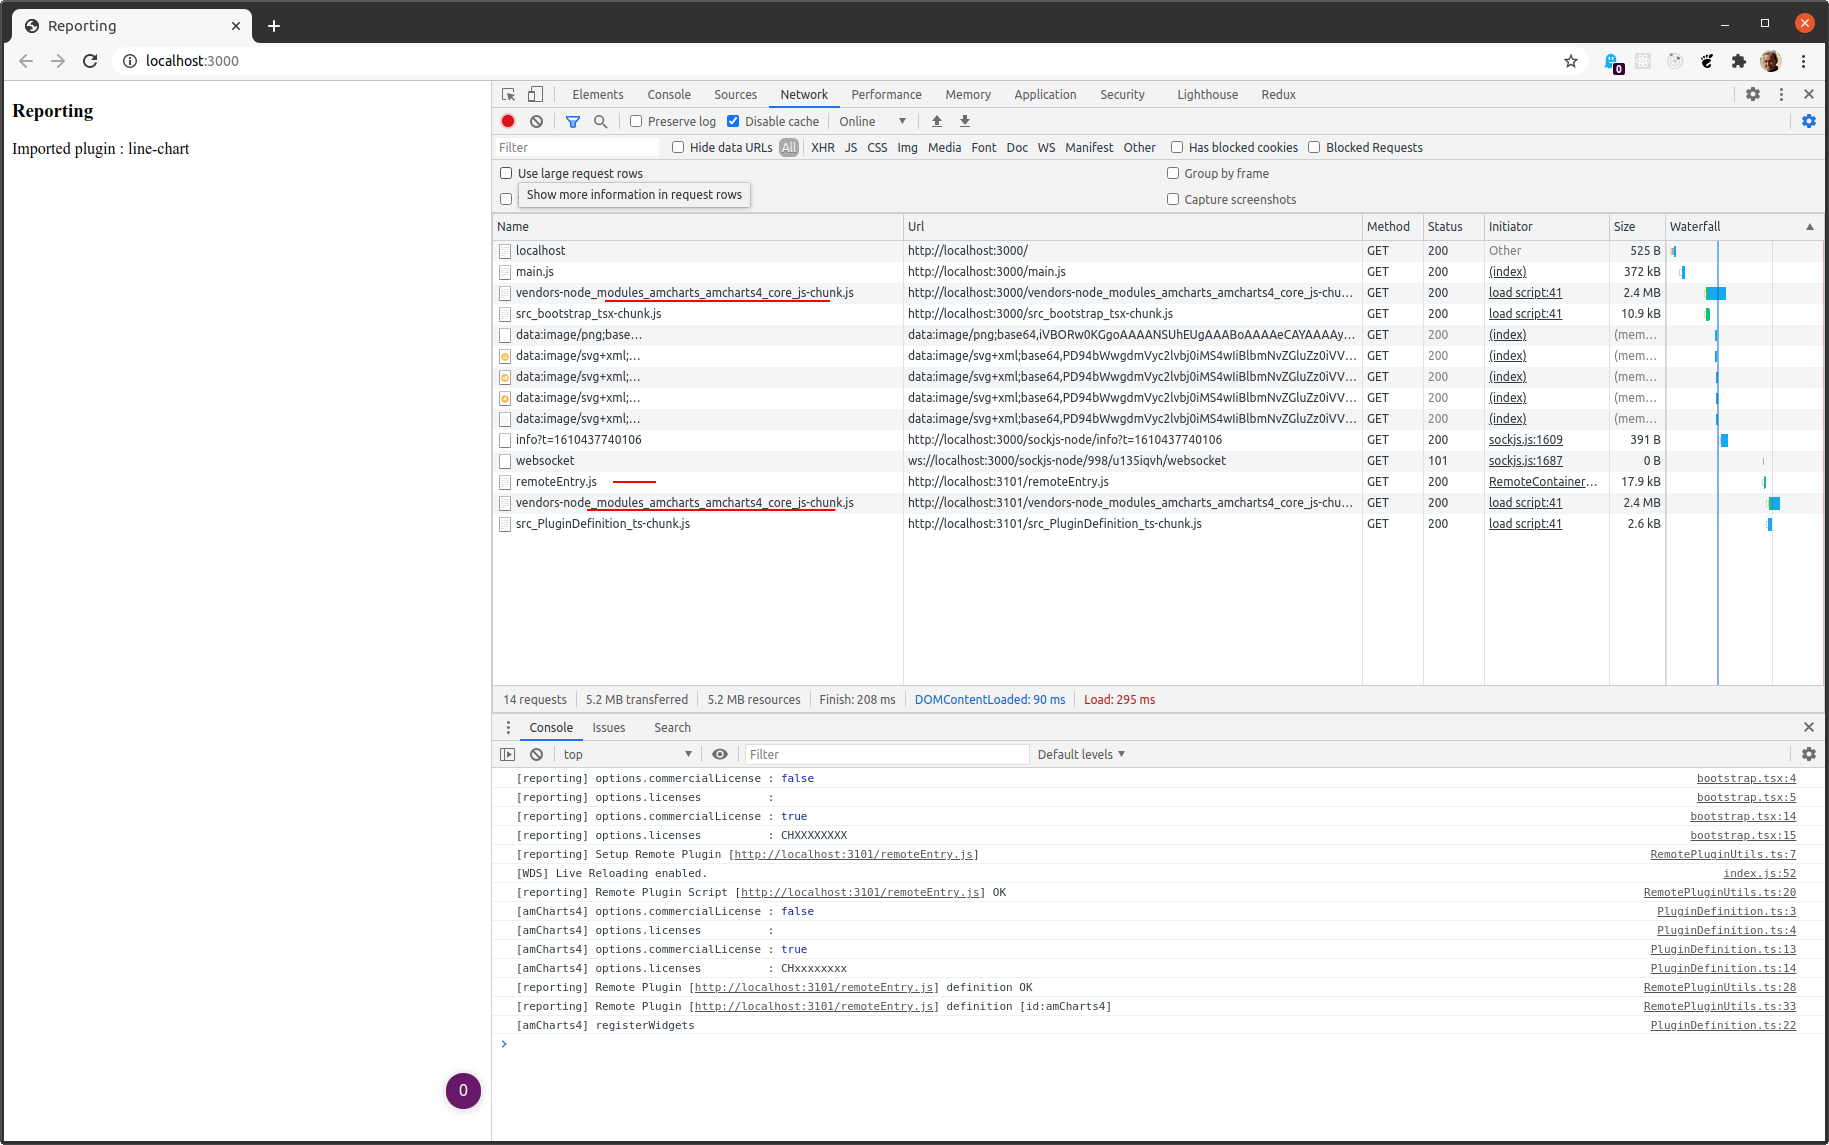
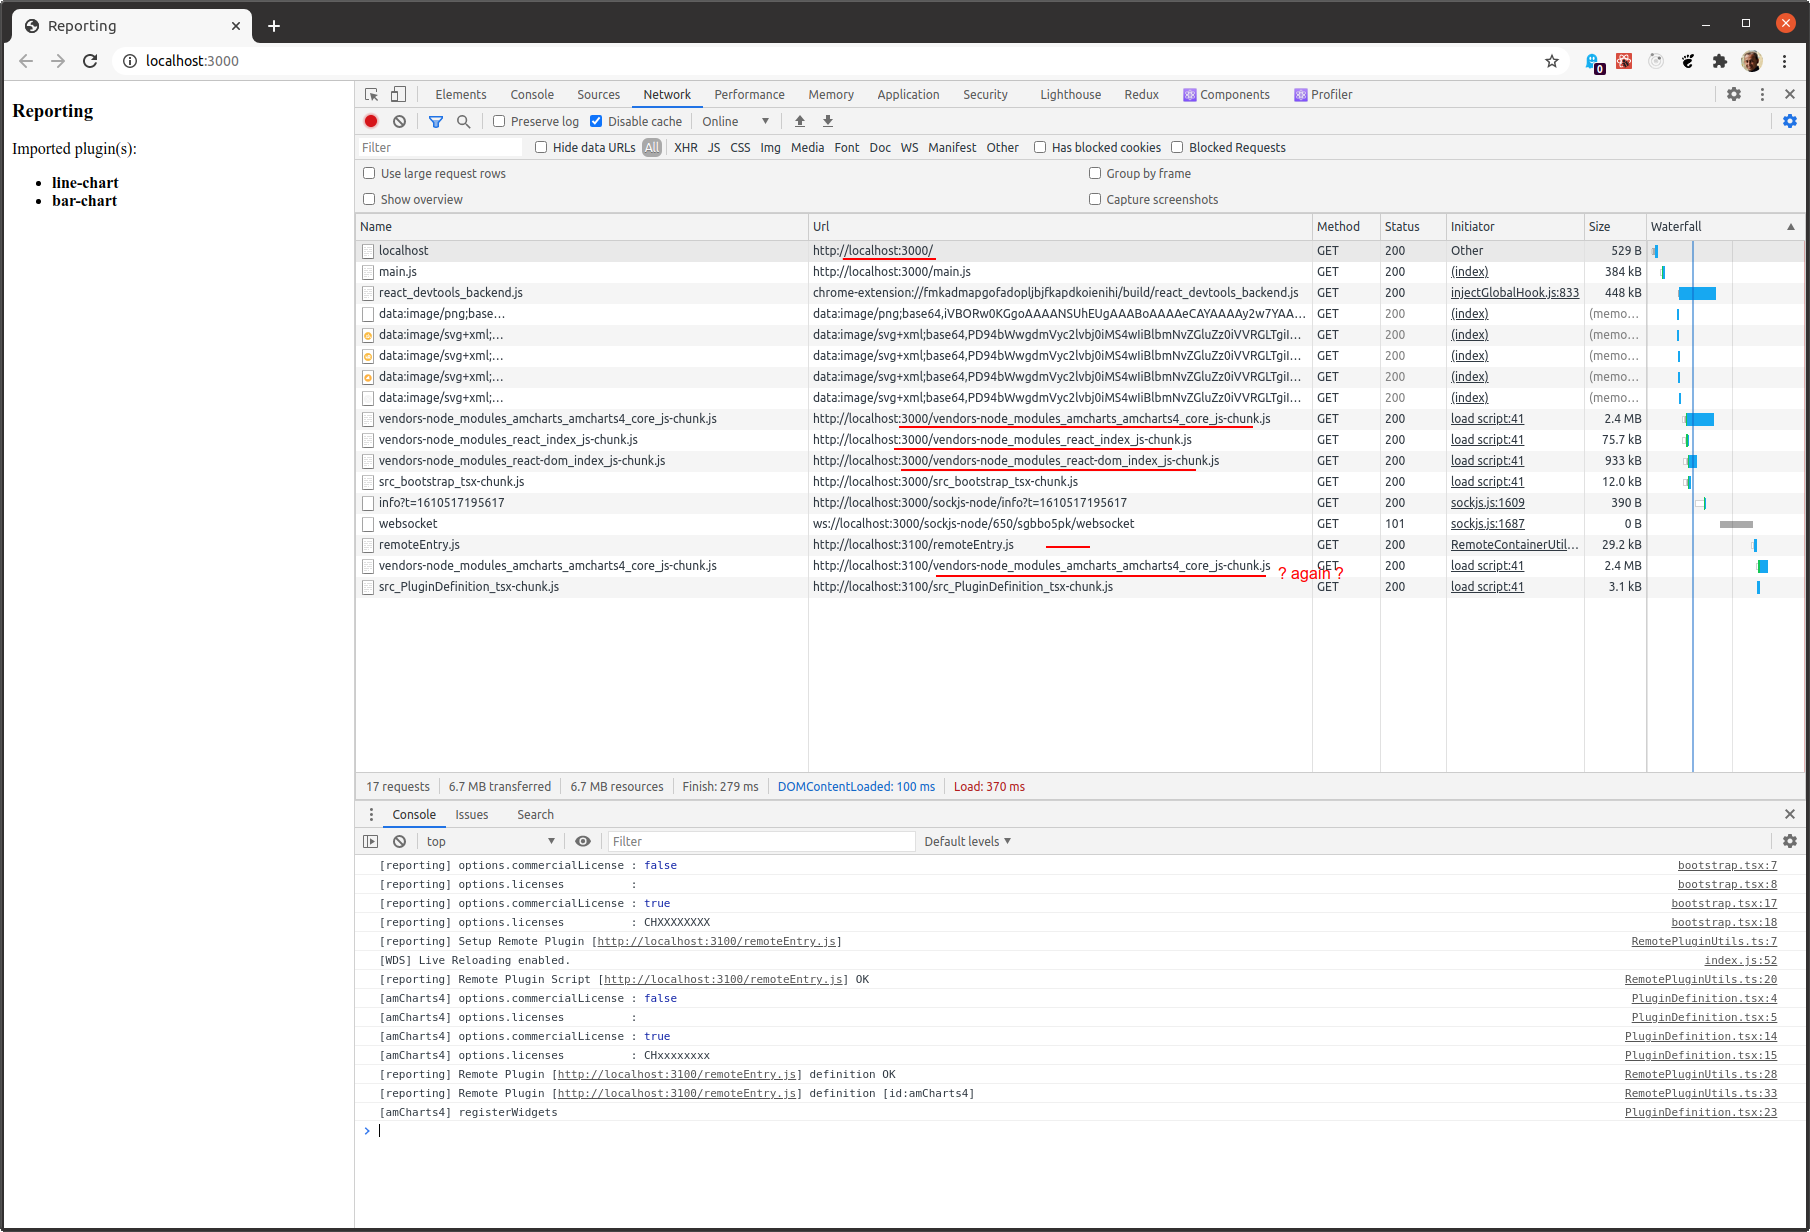
adding React to compare w/ amCharts 4

diff --git a/charts/src/PluginDefinition.tsx b/charts/src/PluginDefinition.tsx
@@ -1,8 +1,8 @@
 import React from "react";
 import * as am4core from "@amcharts/amcharts4/core";
 
-console.log("[amCharts4] options.commercialLicense :" , am4core.options.commercialLicense);
-console.log("[amCharts4] options.licenses          :" , ...am4core.options.licenses);
+console.log("[amCharts4] options.commercialLicense :", am4core.options.commercialLicense);
+console.log("[amCharts4] options.licenses          :", ...am4core.options.licenses);
 
 // Adding multiple times despite Webpack Module Federation setup:
 //      shared: {
@@ -11,8 +11,8 @@ console.log("[amCharts4] options.licenses          :" , ...am4core.options.licen
 am4core.addLicense("CHxxxxxxxx");
 am4core.options.commercialLicense = true;
 
-console.log("[amCharts4] options.commercialLicense :" , am4core.options.commercialLicense);
-console.log("[amCharts4] options.licenses          :" , ...am4core.options.licenses);
+console.log("[amCharts4] options.commercialLicense :", am4core.options.commercialLicense);
+console.log("[amCharts4] options.licenses          :", ...am4core.options.licenses);
 
 const PluginDefinition = {
 

diff --git a/charts/webpack.dev.js b/charts/webpack.dev.js
@@ -74,7 +74,7 @@ module.exports = {
     plugins: [
 
         new ModuleFederationPlugin({
-            name: "amCharts4",
+            name: "charts",
             filename: "remoteEntry.js",
             exposes: {
                 "./PluginDefinition": "./src/PluginDefinition",

diff --git a/reporting/src/bootstrap.tsx b/reporting/src/bootstrap.tsx
@@ -19,7 +19,7 @@ console.log("[reporting] options.licenses          :", ...am4core.options.licens
 
 const plugin = {
     url: "http://localhost:3100/remoteEntry.js",
-    scope: "amCharts4",
+    scope: "charts",
     module: "./PluginDefinition",
 };
 

diff --git a/README.md b/README.md
@@ -9,8 +9,12 @@ amCharts v4 module federation demo: issue w/ shared/singleton setup
                 "./PluginDefinition": "./src/PluginDefinition",
             },
             shared: {
-                "@amcharts/amcharts4": {singleton: true},
+                "react": "^17.0.1",
+                "react-dom": "^17.0.1",
+                "@amcharts/amcharts4": "^4.10.13",
             },
         }),
+
+while React library is loaded once, amCharts 4 is loaded twice.
 
 ![WMF](./wmf.png?raw=true "WMF")
